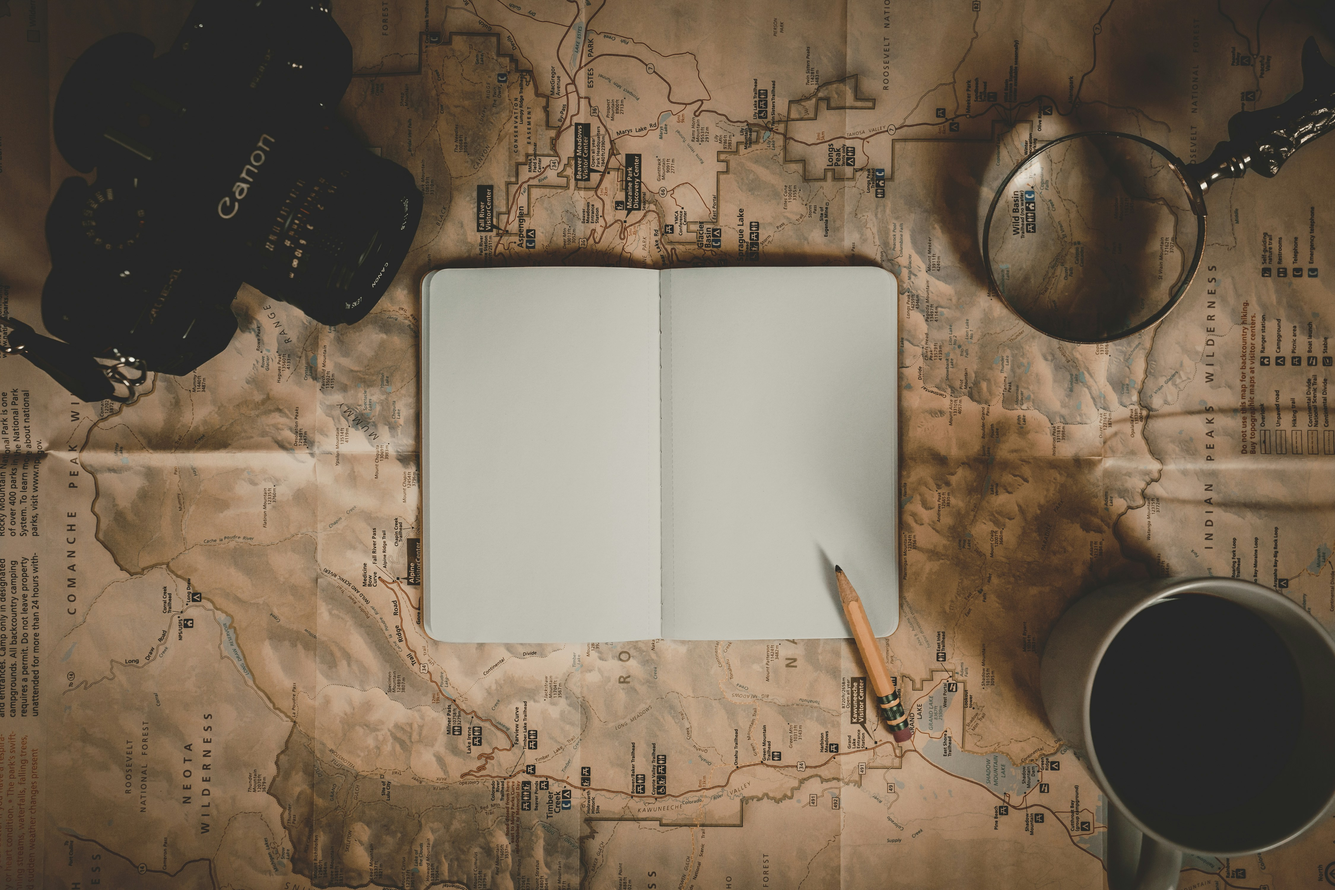
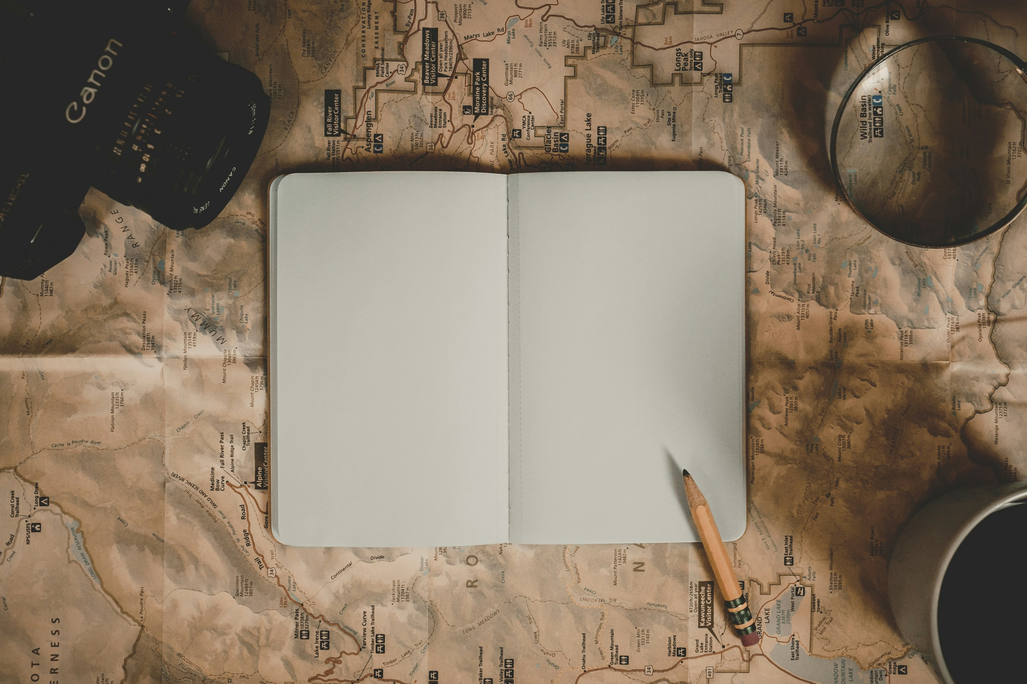
Cambios nav, header y header-bg

diff --git a/src/index.html b/src/index.html
@@ -26,18 +26,19 @@
 
     <nav>
       <ul>
-        <li><a href="#">Inicio</a></li>
-        <li><a href="#">Sobre la app</a></li>
-        <li><a href="#">Nosotros</a></li>
-        <li><a href="#">¡Planifica ya!</a></li>
+        <li><a href="#" class="nav-button">Inicio</a></li>
+        <li><a href="#" class="nav-button">Sobre la app</a></li>
+        <li><a href="#" class="nav-button">Nosotros</a></li>
+        <li><a href="#" class="nav-button">¡Planifica ya!</a></li>
       </ul>
+
     </nav>
   </div>
 
   <header>
 
 
-    <div class="">
+    <div class="header-content">
 
       <div class="logo">
         <img src="/img/isologo-plan-path.svg" alt="Logotipo PlanPath">
@@ -150,42 +151,40 @@
   </main>
 
   <footer>
-    <div class="footer-container">
-
-      <div class="footer-logo">
-        <span>Plan Path</span>
-      </div>
+    <div class="footer-logo">
+      <span>Plan Path</span>
+    </div>
 
 
-      <div class="footer-nav">
-        <a href="#">Inicio</a>
-        <a href="#">Sobre Nosotros</a>
-        <a href="#">Contáctanos</a>
-        <a href="#">Legal</a>
-      </div>
+    <div class="footer-nav">
+      <a href="#">Inicio</a>
+      <a href="#">Sobre Nosotros</a>
+      <a href="#">Contáctanos</a>
+      <a href="#">Legal</a>
+    </div>
 
 
-      <div class="footer-social">
-        <a href="#" class="linkedin" aria-label="LinkedIn">
-          <svg xmlns="http://www.w3.org/2000/svg" viewBox="0 0 448 512">
-            <path
-              d="M416 32H31.9C14.3 32 0 46.5 0 64.3v383.4C0 465.5 14.3 480 31.9 480H416c17.6 0 32-14.5 32-32.3V64.3c0-17.8-14.4-32.3-32-32.3zM135.4 416H69V202.2h66.5V416zm-33.2-243c-21.3 0-38.5-17.3-38.5-38.5S80.9 96 102.2 96c21.2 0 38.5 17.3 38.5 38.5 0 21.3-17.2 38.5-38.5 38.5zm282.1 243h-66.4V312c0-24.8-.5-56.7-34.5-56.7-34.6 0-39.9 27-39.9 54.9V416h-66.4V202.2h63.7v29.2h.9c8.9-16.8 30.6-34.5 62.9-34.5 67.2 0 79.7 44.3 79.7 101.9V416z" />
-          </svg>
-        </a>
-        <a href="#" class="twitter" aria-label="twitter">
-          <svg xmlns="http://www.w3.org/2000/svg" viewBox="0 0 448 512">
-            <path
-              d="M64 32C28.7 32 0 60.7 0 96V416c0 35.3 28.7 64 64 64H384c35.3 0 64-28.7 64-64V96c0-35.3-28.7-64-64-64H64zm297.1 84L257.3 234.6 379.4 396H283.8L209 298.1 123.3 396H75.8l111-126.9L69.7 116h98l67.7 89.5L313.6 116h47.5zM323.3 367.6L153.4 142.9H125.1L296.9 367.6h26.3z" />
-          </svg>
-        </a>
-        <a href="#" class="youtube" aria-label="YouTube">
-          <svg xmlns="http://www.w3.org/2000/svg" viewBox="0 0 576 512">
-            <path
-              d="M549.7 124.1c-6.3-23.7-24.8-42.3-48.3-48.6C458.8 64 288 64 288 64S117.2 64 74.6 75.5c-23.5 6.3-42 24.9-48.3 48.6-11.4 42.9-11.4 132.3-11.4 132.3s0 89.4 11.4 132.3c6.3 23.7 24.8 41.5 48.3 47.8C117.2 448 288 448 288 448s170.8 0 213.4-11.5c23.5-6.3 42-24.2 48.3-47.8 11.4-42.9 11.4-132.3 11.4-132.3s0-89.4-11.4-132.3zm-317.5 213.5V175.2l142.7 81.2-142.7 81.2z" />
-          </svg>
+    <div class="footer-social">
+      <a href="#" class="linkedin" aria-label="LinkedIn">
+        <svg xmlns="http://www.w3.org/2000/svg" viewBox="0 0 448 512">
+          <path
+            d="M416 32H31.9C14.3 32 0 46.5 0 64.3v383.4C0 465.5 14.3 480 31.9 480H416c17.6 0 32-14.5 32-32.3V64.3c0-17.8-14.4-32.3-32-32.3zM135.4 416H69V202.2h66.5V416zm-33.2-243c-21.3 0-38.5-17.3-38.5-38.5S80.9 96 102.2 96c21.2 0 38.5 17.3 38.5 38.5 0 21.3-17.2 38.5-38.5 38.5zm282.1 243h-66.4V312c0-24.8-.5-56.7-34.5-56.7-34.6 0-39.9 27-39.9 54.9V416h-66.4V202.2h63.7v29.2h.9c8.9-16.8 30.6-34.5 62.9-34.5 67.2 0 79.7 44.3 79.7 101.9V416z" />
+        </svg>
+      </a>
+      <a href="#" class="twitter" aria-label="twitter">
+        <svg xmlns="http://www.w3.org/2000/svg" viewBox="0 0 448 512">
+          <path
+            d="M64 32C28.7 32 0 60.7 0 96V416c0 35.3 28.7 64 64 64H384c35.3 0 64-28.7 64-64V96c0-35.3-28.7-64-64-64H64zm297.1 84L257.3 234.6 379.4 396H283.8L209 298.1 123.3 396H75.8l111-126.9L69.7 116h98l67.7 89.5L313.6 116h47.5zM323.3 367.6L153.4 142.9H125.1L296.9 367.6h26.3z" />
+        </svg>
+      </a>
+      <a href="#" class="youtube" aria-label="YouTube">
+        <svg xmlns="http://www.w3.org/2000/svg" viewBox="0 0 576 512">
+          <path
+            d="M549.7 124.1c-6.3-23.7-24.8-42.3-48.3-48.6C458.8 64 288 64 288 64S117.2 64 74.6 75.5c-23.5 6.3-42 24.9-48.3 48.6-11.4 42.9-11.4 132.3-11.4 132.3s0 89.4 11.4 132.3c6.3 23.7 24.8 41.5 48.3 47.8C117.2 448 288 448 288 448s170.8 0 213.4-11.5c23.5-6.3 42-24.2 48.3-47.8 11.4-42.9 11.4-132.3 11.4-132.3s0-89.4-11.4-132.3zm-317.5 213.5V175.2l142.7 81.2-142.7 81.2z" />
+        </svg>
 
-        </a>
-      </div>
+      </a>
+    </div>
     </div>
     <div class="footer-bottom">
       <p>© 2024 Plan Path. All rights reserved.</p>

diff --git a/src/index.css b/src/index.css
@@ -17,9 +17,9 @@ body {
 }
 
 header{
-  height: 50rem;
+  height: 65rem;
   width: 100%;
-  background-image: url("../public/img/header-bg.jpg");
+  background-image: url("../public/img/header-bg2.jpg");
   background-color: var(--divbgcolor);
   background-size: cover;
   color: var(--lettercolor);
@@ -32,11 +32,9 @@ header{
 
 .nav-bar{
   position: sticky;
-  top: 10px;
   background-color: var(--divbgcolor);
   color: var(--lettercolor);
   width: 100%;
-  padding: 0.8rem;
   text-align: center;
   display: flex;
   flex-direction: row;
@@ -49,6 +47,8 @@ header{
   }
 
   nav{
+    padding: 0.8rem;
+
     ul{
       list-style: none;
       display: flex;
@@ -58,19 +58,21 @@ header{
       gap: 10px;
     }
 
-    &a{
+    .nav-button{
       color: var(--lettercolor);
       text-decoration: none;
       padding: 10px;
     }
 
-    &a:hover{
+    .nav-button:hover{
       background-color: var(--pagebgcolor);
       color: var(--tittlecolor);
     }
-
-    
   }
+}
+
+.header-content{
+  margin-top: 25rem;
 }
 
 .content-container { /* main */
